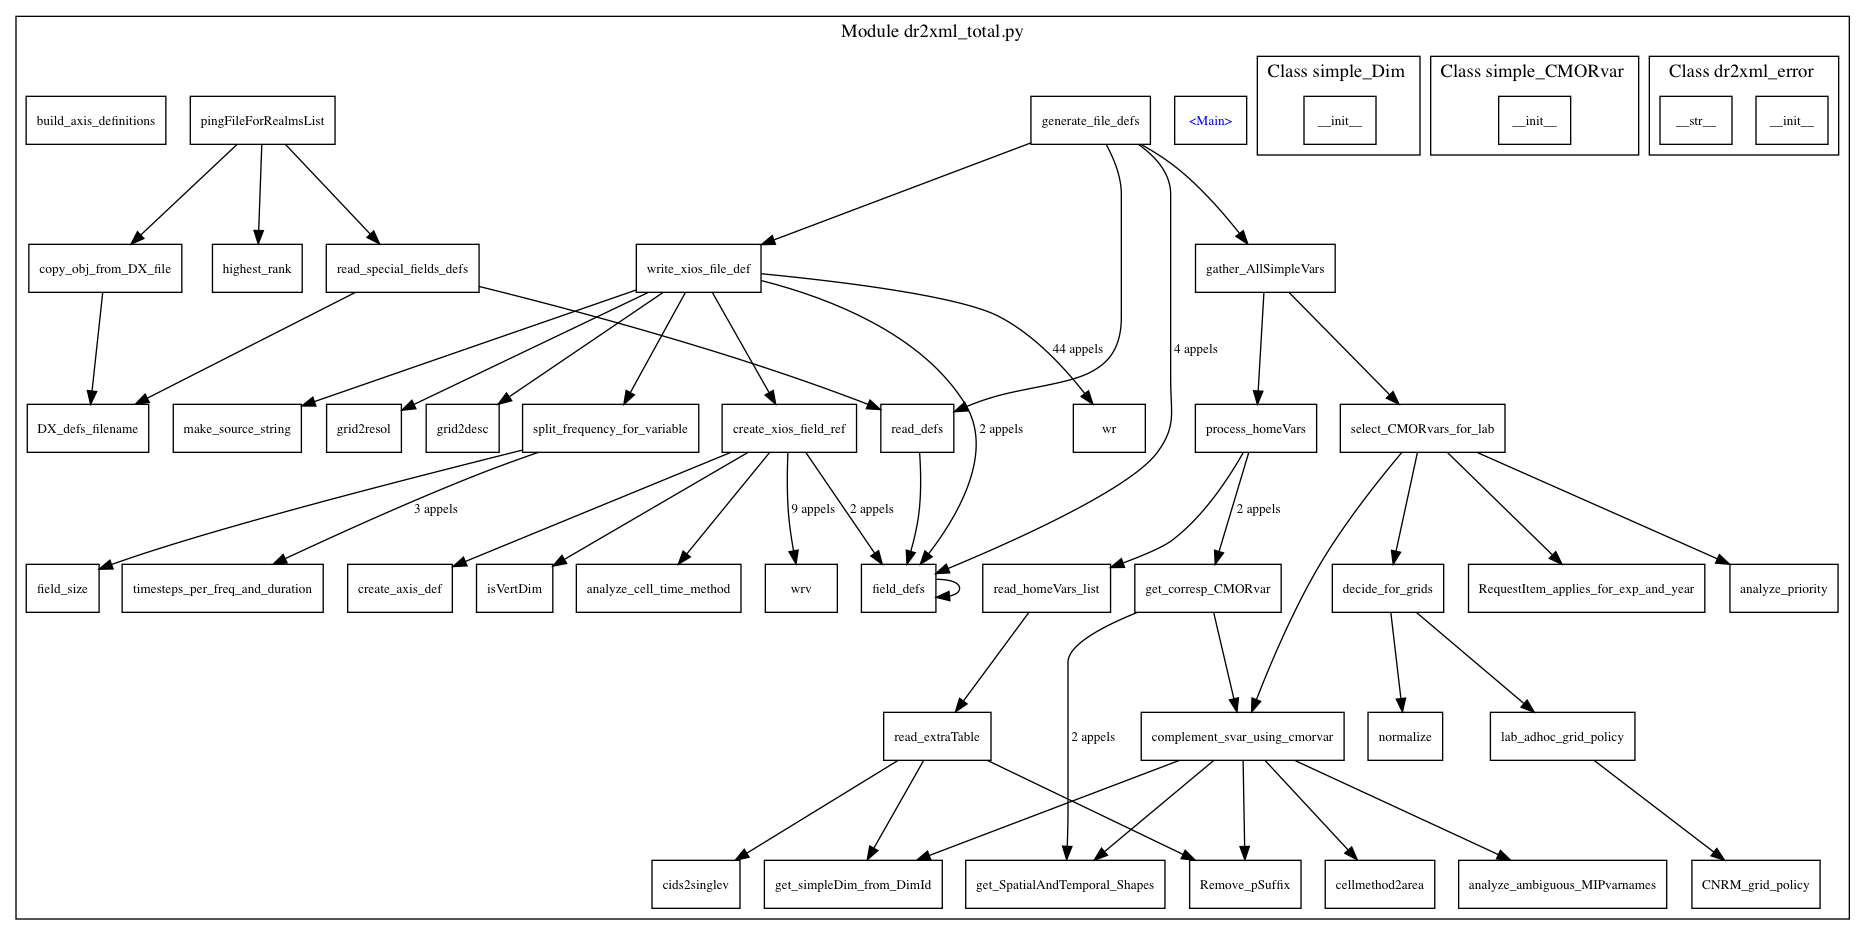
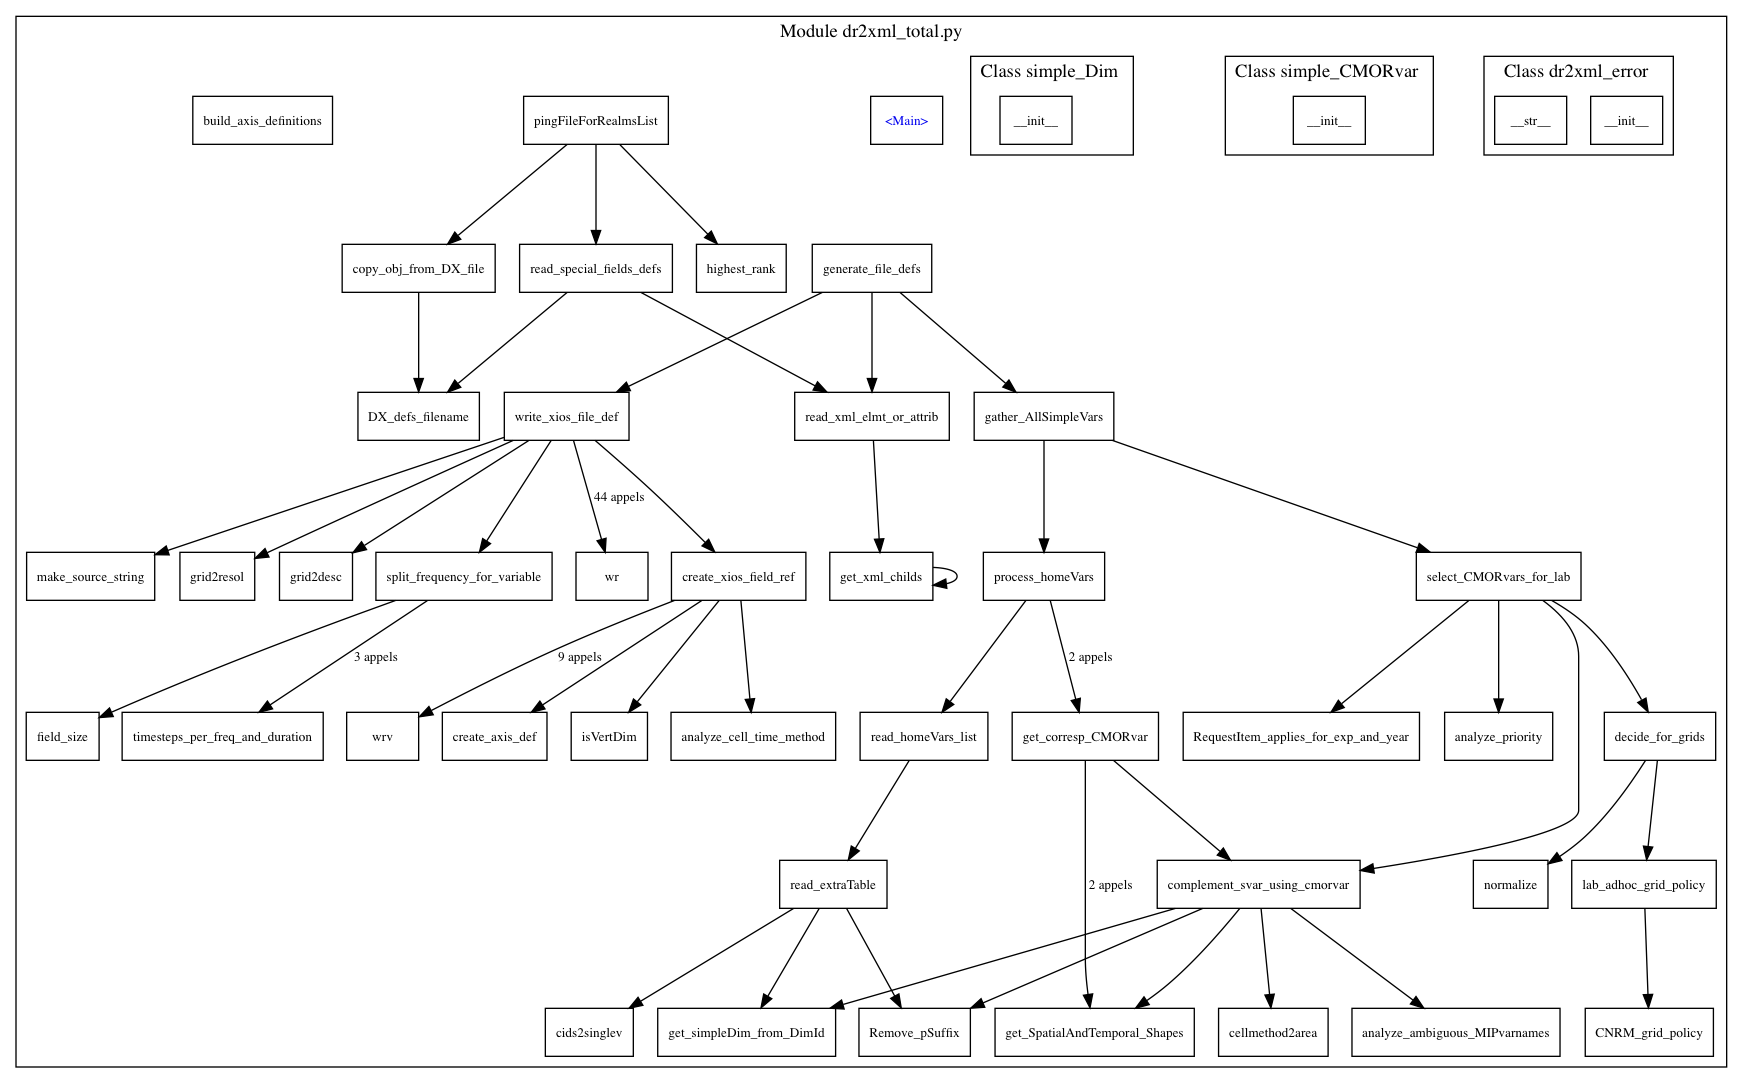
Pull up functions defined under others. Correct graphviz image

diff --git a/graphviz/dr2xml_total.py b/graphviz/dr2xml_total.py
@@ -843,7 +843,7 @@ def generate_file_defs(lset,sset,year,context,cvs_path,pingfile=None,dummies='in
     # read ping_file defined variables
     pingvars=[] 
     if pingfile :
-        ping_refs=read_defs(pingfile, tag='field', attrib='field_ref')
+        ping_refs=read_xml_elmt_or_attrib(pingfile, tag='field', attrib='field_ref')
         if ping_refs is None :
             print "Issue accessing pingfile "+pingfile
             return
@@ -1165,7 +1165,7 @@ def copy_obj_from_DX_file(fp,obj,prefix,lrealms) :
 def DX_defs_filename(obj,realm):
     return prog_path+"inputs/DX_%s_defs_%s.xml"%(obj,realm)
 
-def field_defs(elt, tag='field', groups=['context', 'field_group',
+def get_xml_childs(elt, tag='field', groups=['context', 'field_group',
     'field_definition', 'axis_definition','axis', 'domain_definition',
     'domain', 'grid_definition', 'grid' , 'interpolate_axis'  ]) :
     """ 
@@ -1175,7 +1175,7 @@ def field_defs(elt, tag='field', groups=['context', 'field_group',
     """
     if elt.tag in groups :
         rep=[]
-        for child in elt : rep.extend(field_defs(child,tag))
+        for child in elt : rep.extend(get_xml_childs(child,tag))
         return rep
     elif elt.tag==tag : return [elt]
     else :
@@ -1183,7 +1183,7 @@ def field_defs(elt, tag='field', groups=['context', 'field_group',
         # Case of an unkown tag : don't dig in
         return []
 
-def read_defs(filename, tag='field', attrib=None, printout=False) :
+def read_xml_elmt_or_attrib(filename, tag='field', attrib=None, printout=False) :
     """ 
     Returns a dict of obejcts tagged TAG in FILENAME, which 
     - keys are ids
@@ -1197,7 +1197,7 @@ def read_defs(filename, tag='field', attrib=None, printout=False) :
     if os.path.exists(filename) :
         if printout : print "OK"%filename
         root = ET.parse(filename).getroot()
-        defs=field_defs(root,tag) 
+        defs=get_xml_childs(root,tag) 
         if defs :
             for field in defs :
                 if printout : print ".",
@@ -1218,8 +1218,8 @@ def read_special_fields_defs(realms,printout=False) :
         for subrealm in realm.split() :
             if subrealm in subrealms_seen : continue
             subrealms_seen.append(subrealm)
-            d=read_defs(DX_defs_filename("field",subrealm),\
-                        tag='field',printout=printout)
+            d=read_xml_elmt_or_attrib(DX_defs_filename("field",subrealm),\
+                                        tag='field',printout=printout)
             if d: special.update(d)
     rep=dict()
     # Use raw label as key

diff --git a/grids.py b/grids.py
@@ -16,6 +16,11 @@ Also : management of fields size/split_frequency
 """
 from table2freq import table2freq
 
+def normalize(grid) :
+     """ TBD : completely remove variants in grid strings """
+     if grid in [ "yes", "YES", "Yes" ] : return "yes"
+     if grid[0:2] in [ "NO", "No", "no" ] : return "no"
+     return grid
 
 def decide_for_grids(svar,grid,lset):
      """
@@ -29,11 +34,6 @@ def decide_for_grids(svar,grid,lset):
 
      TBD : use Martin's acronyms for grid policy
      """
-     def normalize(grid) :
-         """ TBD : completely remove variants in grid strings """
-         if grid in [ "yes", "YES", "Yes" ] : return "yes"
-         if grid[0:2] in [ "NO", "No", "no" ] : return "no"
-         return grid
      grid=normalize(grid)
      policy=lset.get("grid_policy")
      if policy is None or policy=="DR": # Follow DR spec

diff --git a/vars.py b/vars.py
@@ -133,6 +133,10 @@ def read_homeVars_list(hmv_file,expid,mips,dq,path_extra_tables=None):
     homevars.extend(extravars) 
     return homevars 
 
+def cids2singlev(cids):
+    slev=cids[0].split(":")
+    if len(slev)==2:return slev[1]
+
 # mpmoine_last_modif:read_extraTable: nouvelle fonction pour lire les extra_Tables
 def read_extraTable(path,table,dq,printout=False):
     """
@@ -148,10 +152,6 @@ def read_extraTable(path,table,dq,printout=False):
     Returns:
       A list of 'simplified CMOR variables'
     """
-    #
-    def cids2singlev(cids):
-        slev=cids[0].split(":")
-        if len(slev)==2:return slev[1]
     #
     if not dims2shape:
         for sshp in dq.coll['spatialShape'].items:
